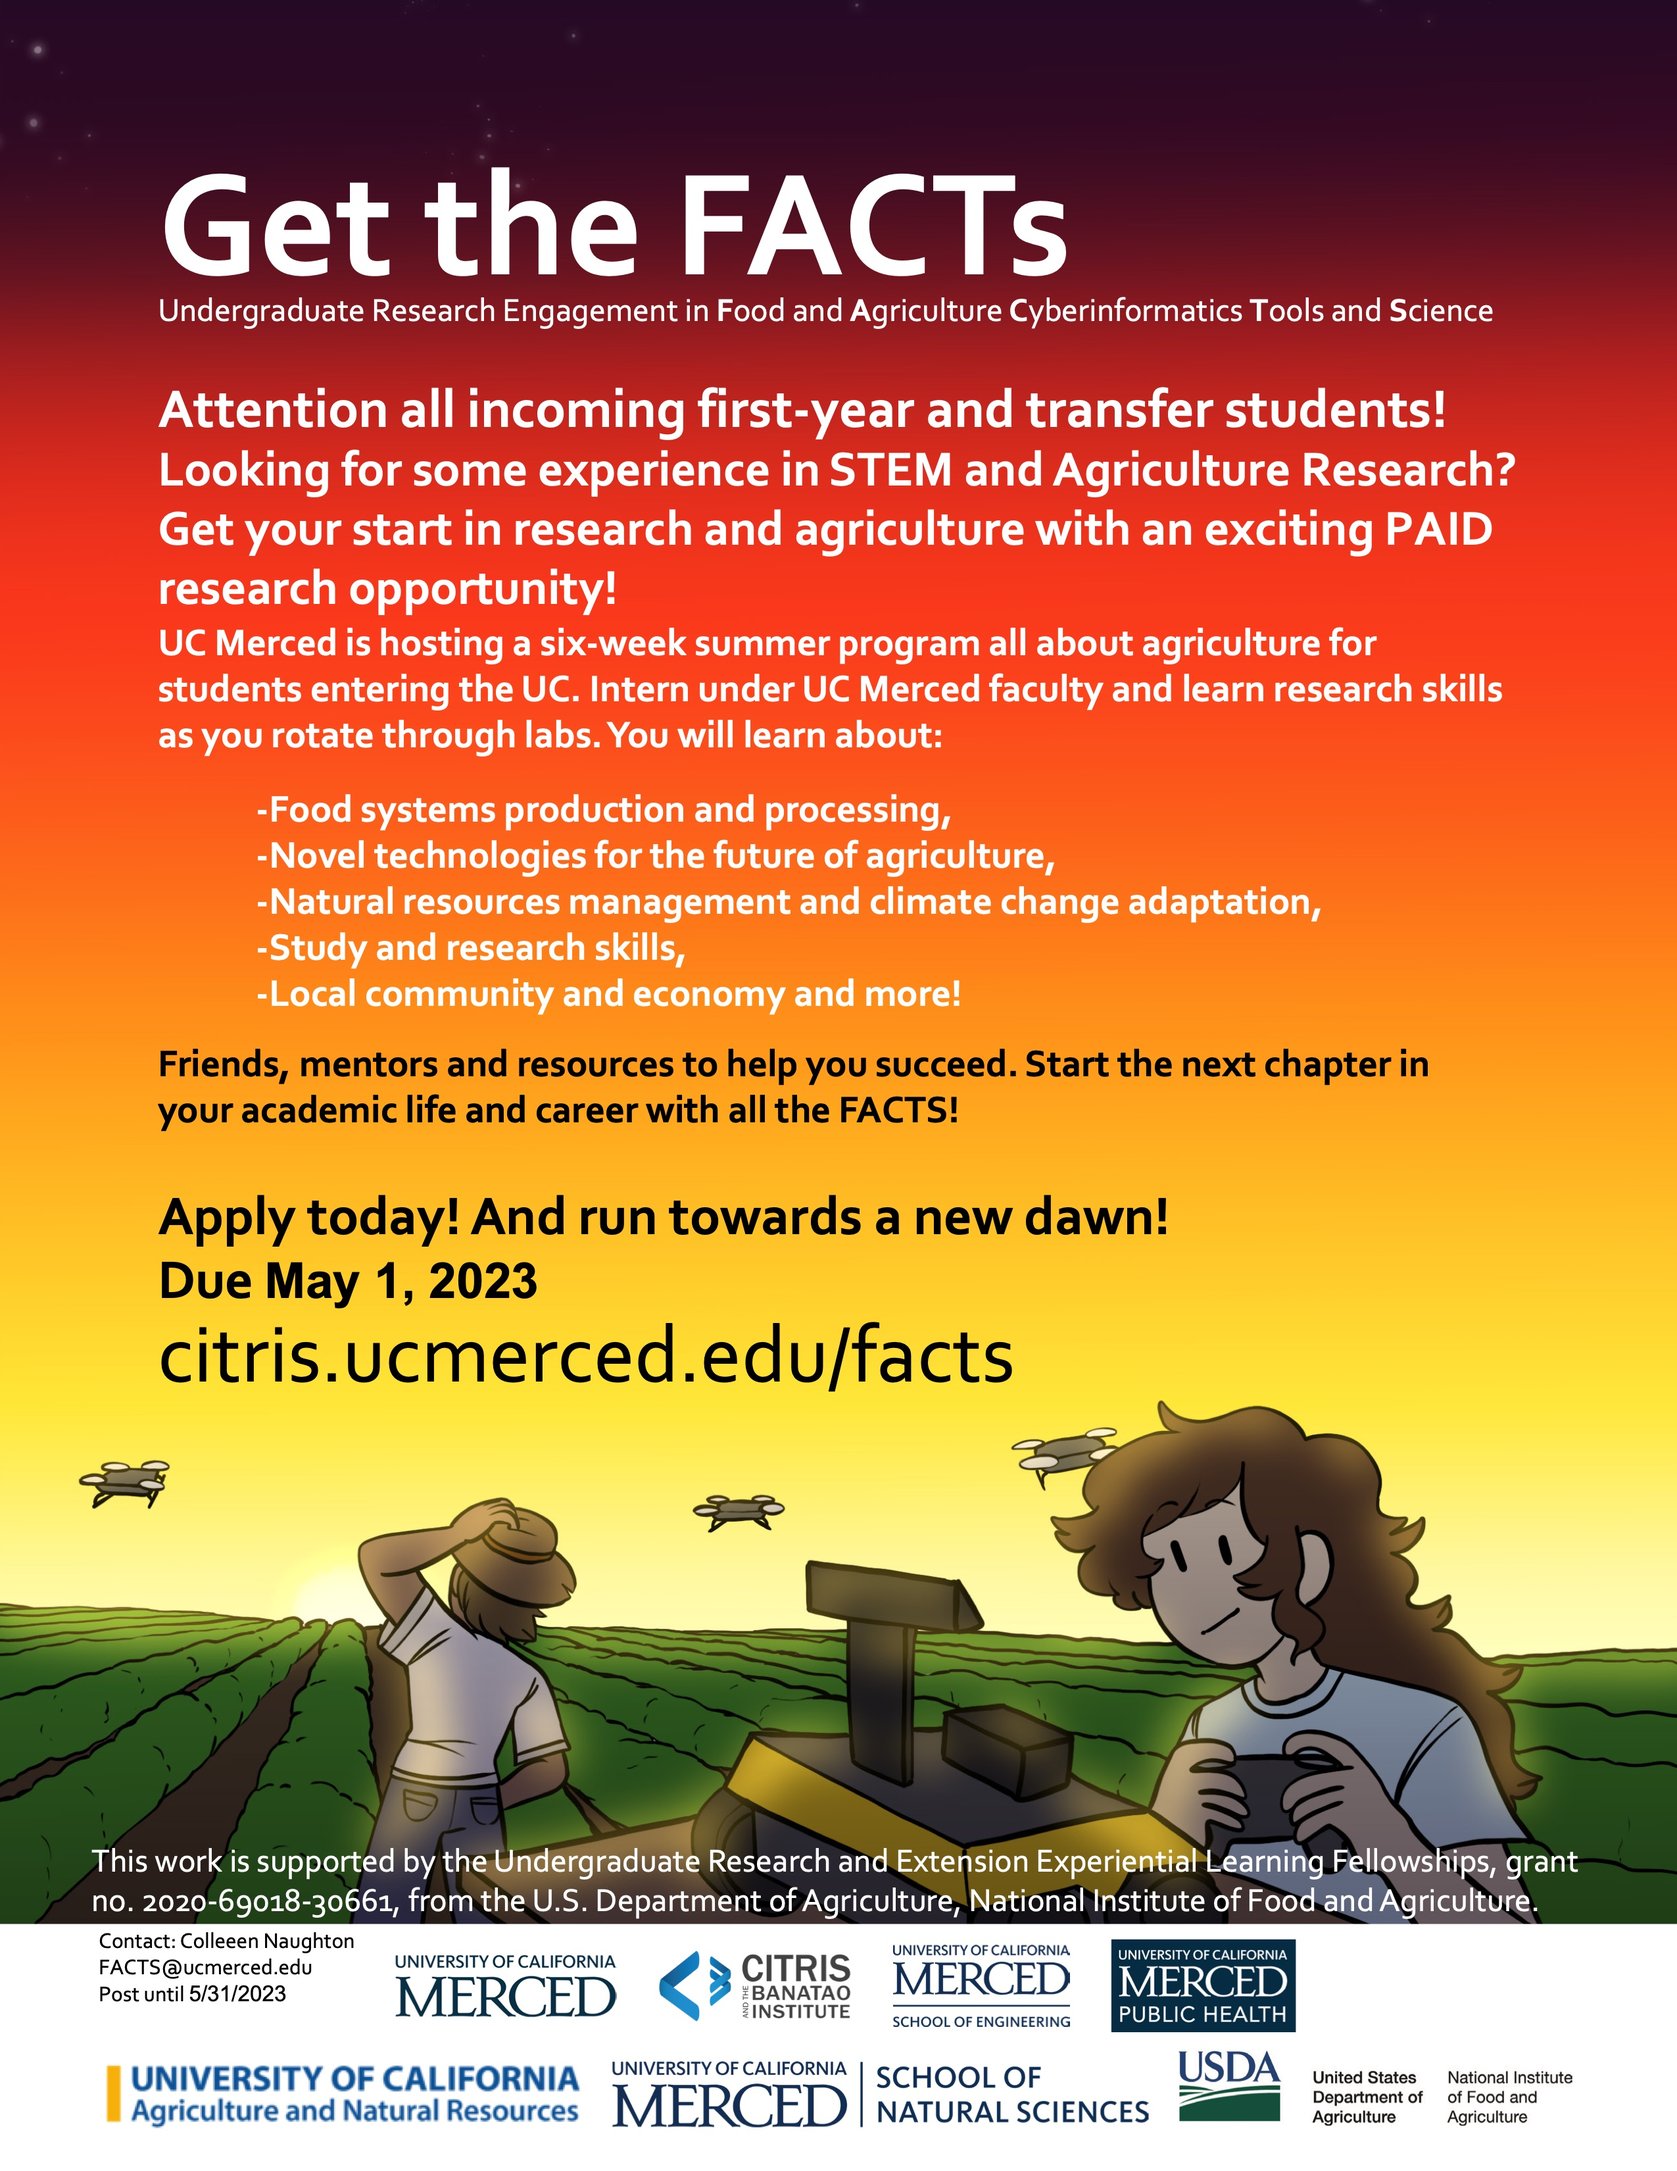
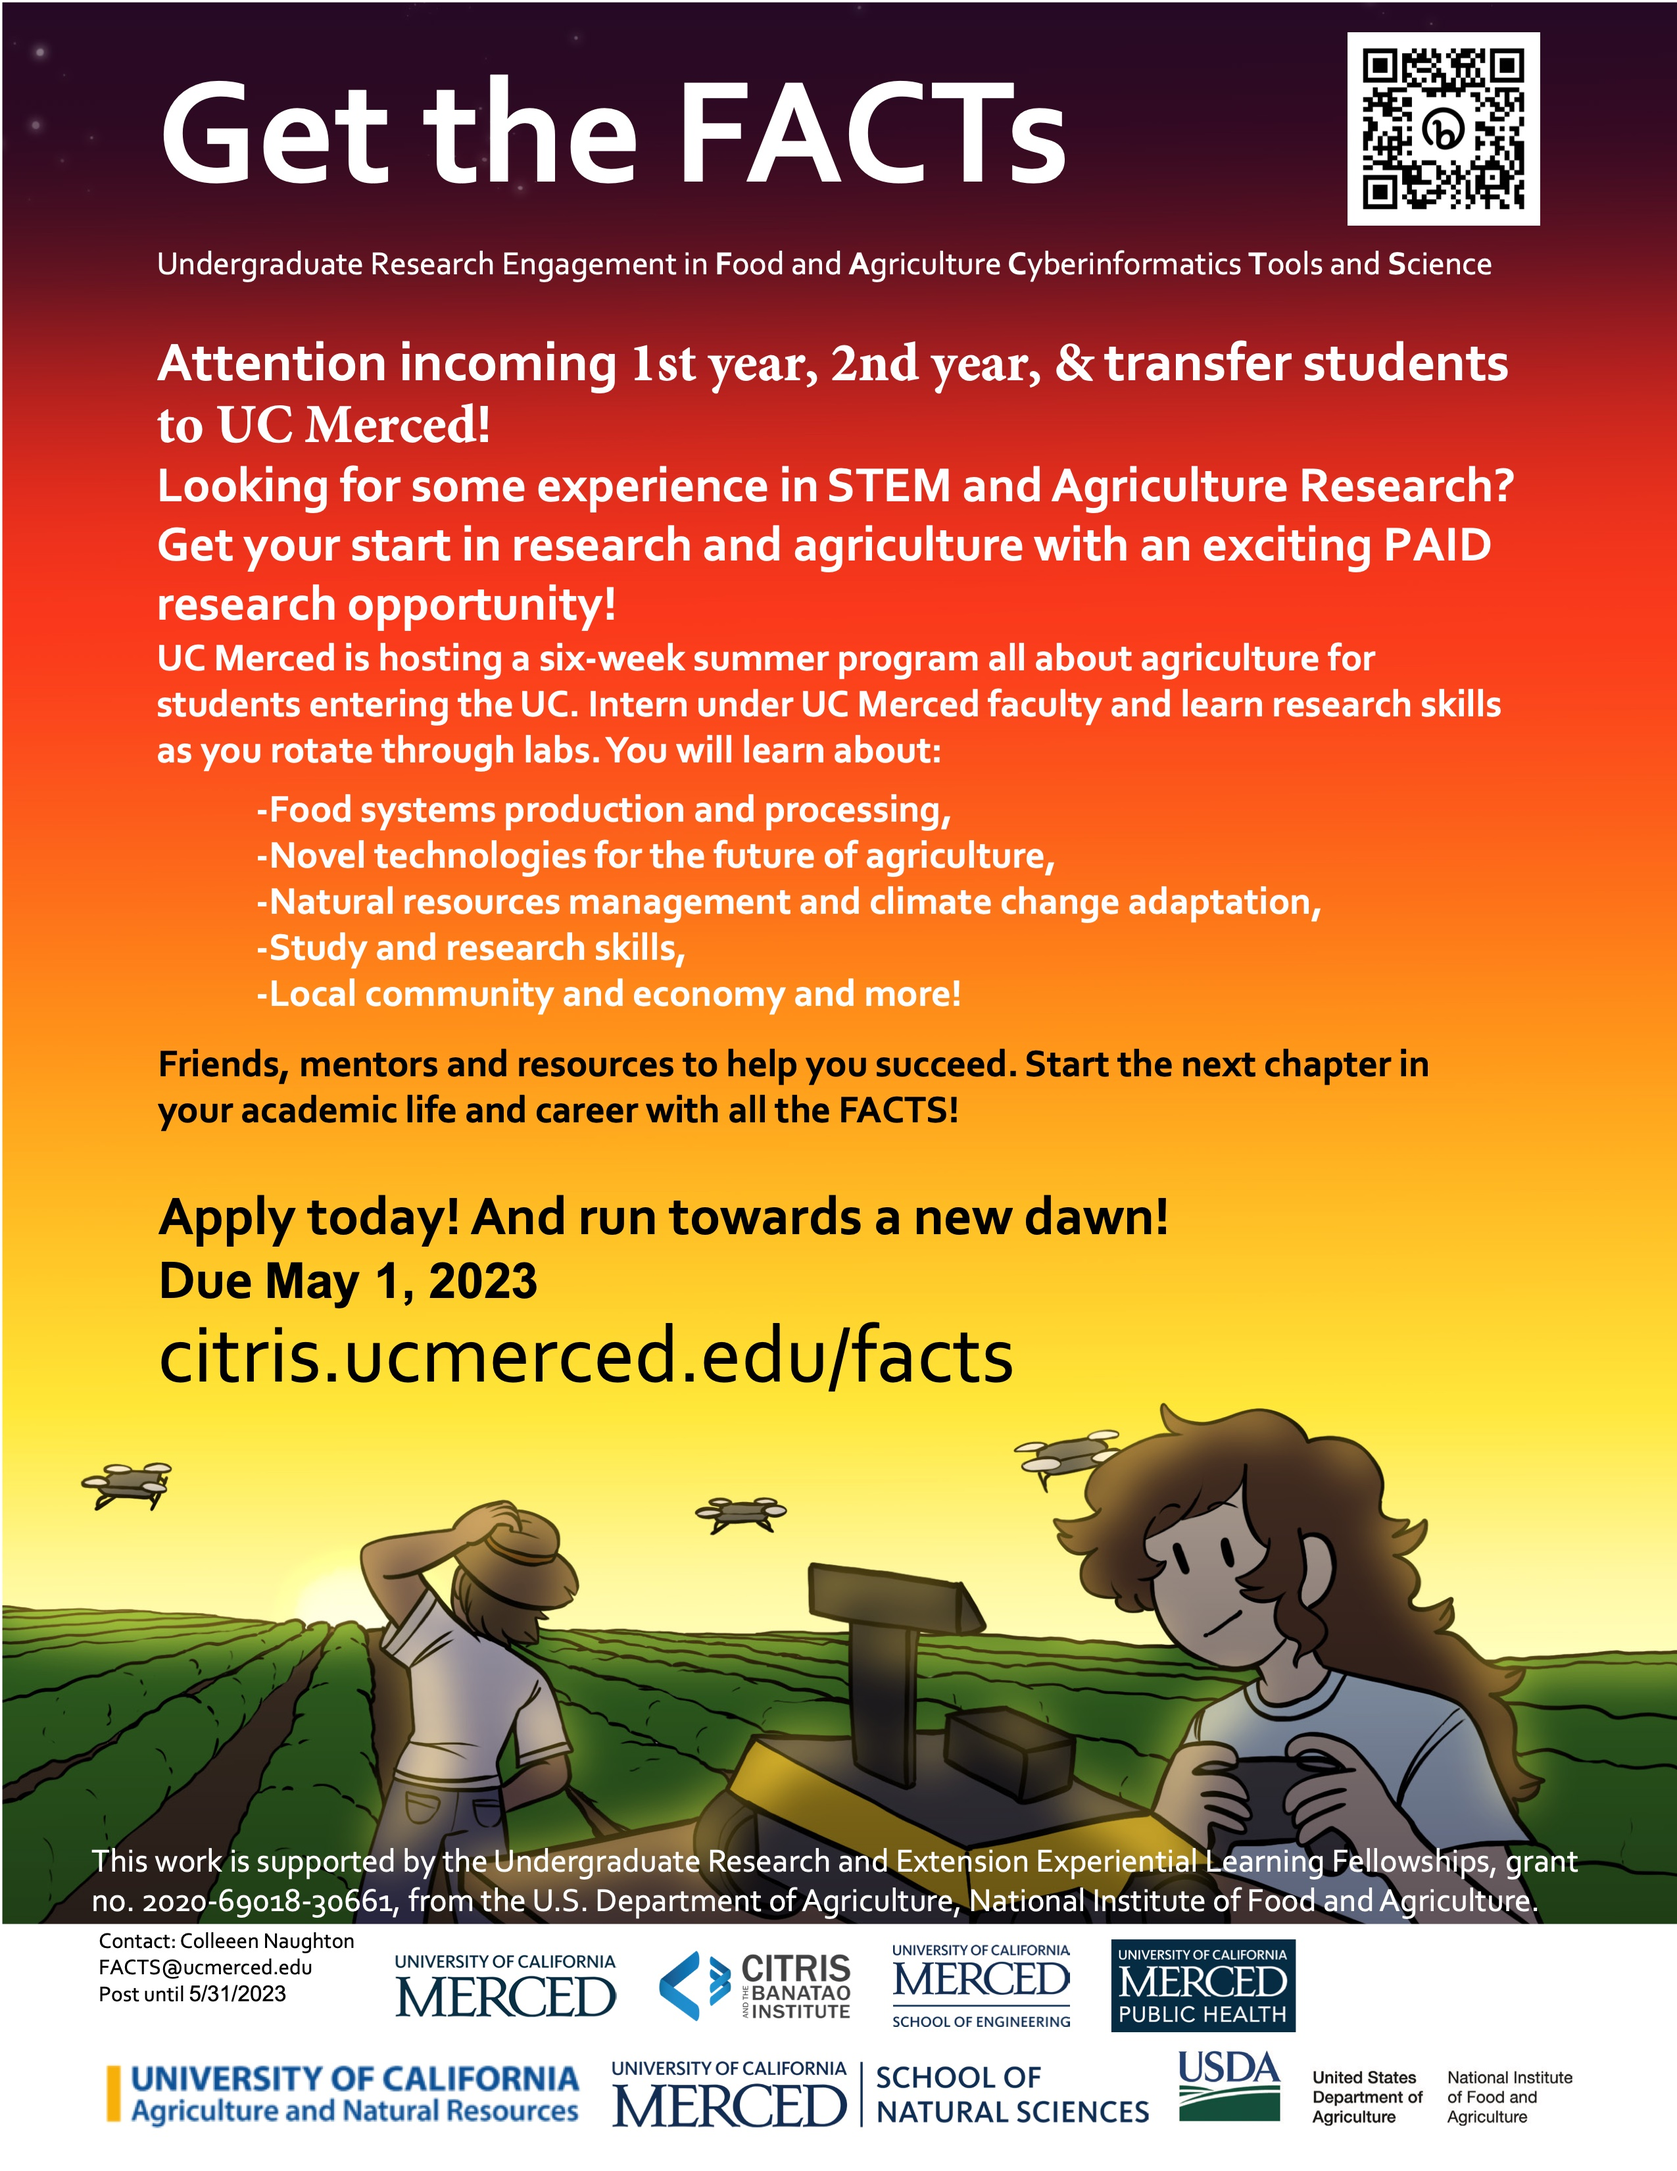
Update facts page to target 2nd years

diff --git a/facts.html b/facts.html
@@ -53,7 +53,7 @@
                                 <hr>
                                 <p>
                                     We are offering a new, innovative summer research program to give students who are
-                                    entering UC Merced (first-year and transfer students) and students who are in the
+                                    entering UC Merced (first-year, second-year, and transfer students) and students who are in the
                                     process of completing their first year (rising sophomore students) an opportunity
                                     for research experience in ag-food-tech.
                                 </p>
